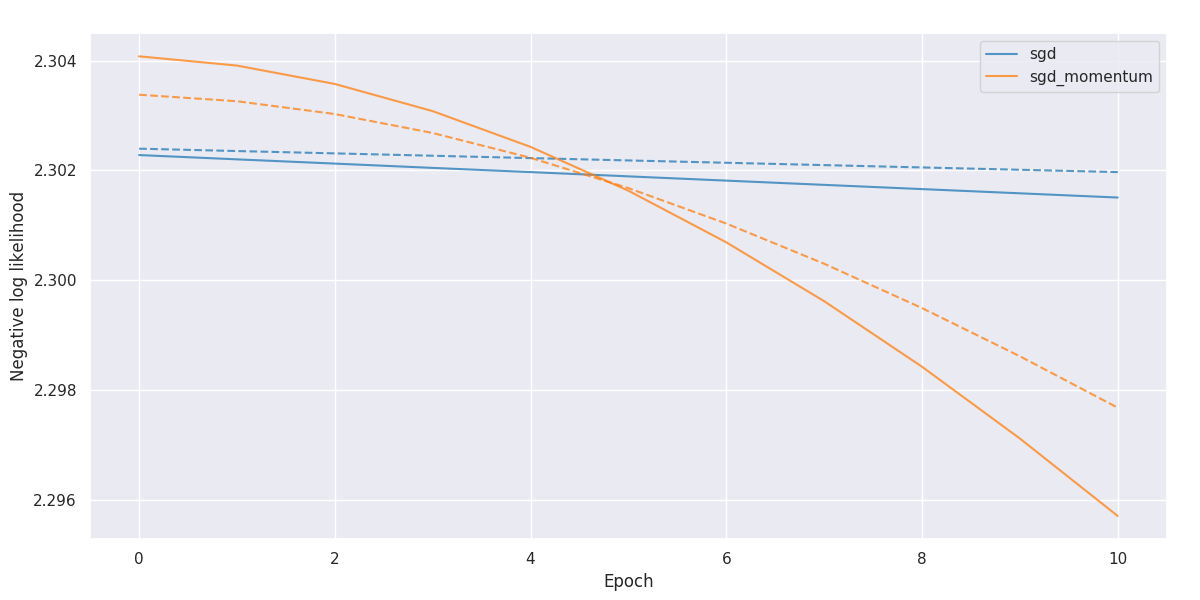
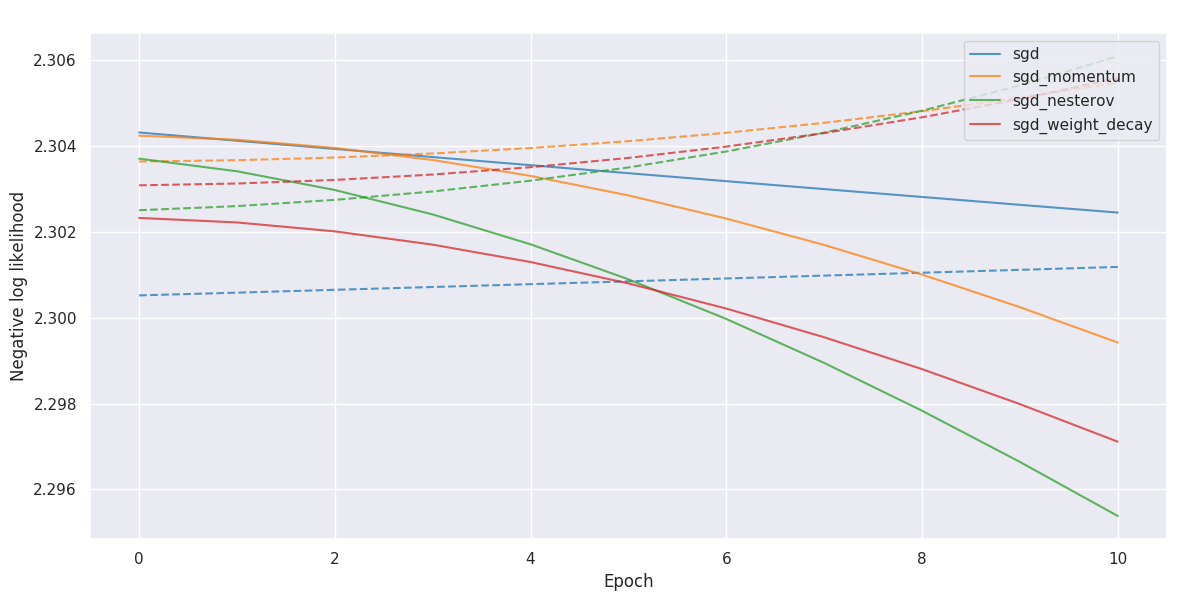
run remote

diff --git a/main.py b/main.py
@@ -11,6 +11,7 @@ from networks import MLP, CNN, fit
 if __name__ == '__main__':
 	parser = argparse.ArgumentParser()
 	parser.add_argument('-num_epochs', type=int, default=100)
+	parser.add_argument('-only_plot', type=bool, default=False)
 	args = parser.parse_args()
 
 	data = misc.load_cifar()
@@ -47,7 +48,7 @@ if __name__ == '__main__':
 		}
 	}
 
-	opt_labels = ['sgd', 'sgd_momentum', 'sgd_nesterov', 'sgd_weight_decay', 'adam', 'adamW']
+	opt_labels = ['sgd', 'sgd_momentum', 'sgd_nesterov', 'sgd_weight_decay']#, 'adam', 'adamW']
 	opt_losses, opt_val_losses = [], []
 
 	def do_stuff(opt):
@@ -62,10 +63,16 @@ if __name__ == '__main__':
 		return fit(net, data, optimizer, num_epochs=args.num_epochs)
 
 	for opt in opt_labels:
-		losses, val_losses = do_stuff(opt)
-		misc.save_losses(losses, filename=opt)
+		if args.only_plot:
+			losses = misc.load_losses(filename=opt)
+			val_losses = misc.load_losses(filename=opt+'_val')
+		else:
+			losses, val_losses = do_stuff(opt)
+			misc.save_losses(losses, filename=opt)
+			misc.save_losses(val_losses, filename=opt+'_val')
+
 		opt_losses.append(losses)
 		opt_val_losses.append(val_losses)
 
-	if torch.cuda.is_available():
+	if not torch.cuda.is_available():
 		misc.plot_losses(opt_losses, opt_val_losses, labels=opt_labels, num_epochs=args.num_epochs, plot_epochs=False)

diff --git a/misc.py b/misc.py
@@ -10,7 +10,7 @@ from torch.utils import data
 from torchvision import transforms
 
 
-def load_cifar(num_train=128, num_val=64, batch_size=64):
+def load_cifar(num_train=8192, num_val=512, batch_size=64):
 	"""
 	Loads a subset of the CIFAR dataset and returns it as a tuple.
 	"""
